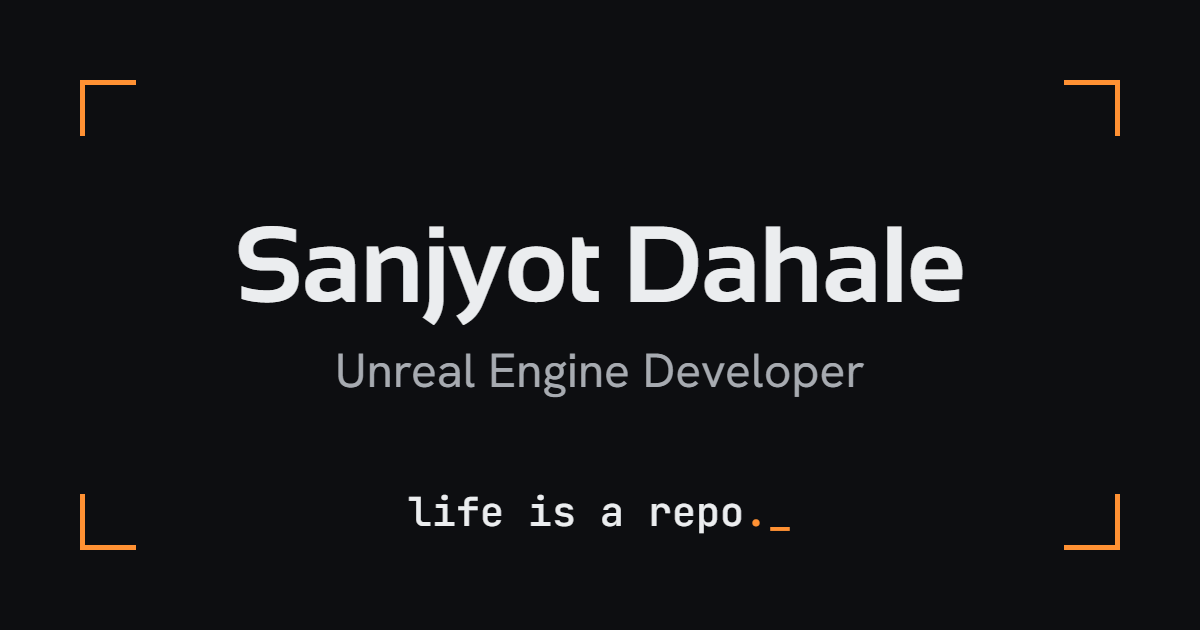
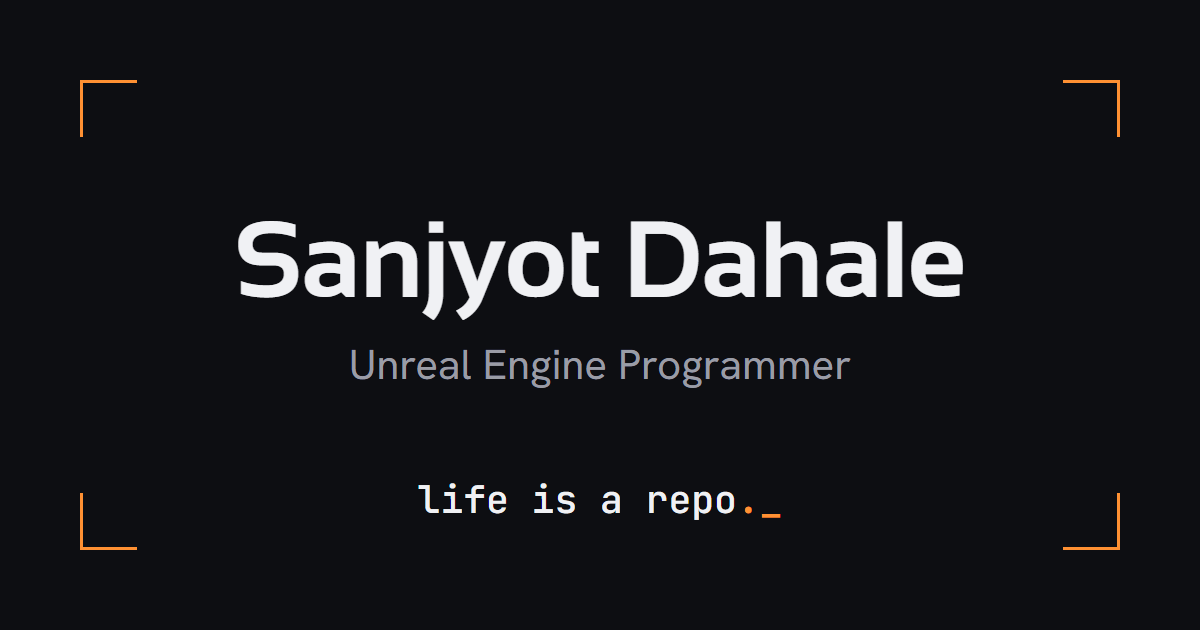
One title everywhere: Unreal Engine Programmer
- Nav, footer, hero role line, page titles, social title, JSON-LD jobTitle
  and devlog byline now say "Unreal Engine Programmer".
- Hero badge is static ("open to unreal programming roles · remote");
  the five-role rotation is gone.
- New link-preview description; knowsAbout drops VP, GenAI and broadcast.
- Regenerated og-default.png with the new title; template in
  _design_system/og-card.html.

diff --git a/_includes/head-meta.html b/_includes/head-meta.html
@@ -18,7 +18,7 @@
 
 {%- comment -%} ---------- title ---------- {%- endcomment -%}
 {%- if page.layout == 'home' or page.url == '/' -%}
-  {%- assign seo_title = 'Sanjyot Dahale — Unreal Engine Developer' -%}
+  {%- assign seo_title = 'Sanjyot Dahale — Unreal Engine Programmer' -%}
 {%- elsif page.title -%}
   {%- assign seo_title = page.title | append: ' · Sanjyot Dahale' -%}
 {%- else -%}
@@ -101,10 +101,10 @@
 </script>
 {%- elsif page.layout == 'home' or page.url == '/' %}
 <script type="application/ld+json">
-{"@context":"https://schema.org","@type":"Person","name":"Sanjyot Dahale","url":{{ site.url | jsonify }},"image":{{ seo_image | jsonify }},"jobTitle":"Unreal Engine Developer","description":{{ site.description | jsonify }},"email":{{ site.email | prepend: 'mailto:' | jsonify }},"sameAs":{{ person_sameas }},"knowsAbout":["Unreal Engine","Game Development","C++","Virtual Production","Extended Reality","Mixed Reality","Generative AI","Real-Time Broadcast"]}
+{"@context":"https://schema.org","@type":"Person","name":"Sanjyot Dahale","url":{{ site.url | jsonify }},"image":{{ seo_image | jsonify }},"jobTitle":"Unreal Engine Programmer","description":{{ site.description | jsonify }},"email":{{ site.email | prepend: 'mailto:' | jsonify }},"sameAs":{{ person_sameas }},"knowsAbout":["Unreal Engine","C++","Game Development","Unreal Engine plugins","Third-party SDK integration","Multiplayer networking","Performance optimisation","Extended Reality"]}
 </script>
 {%- elsif page.url == '/about/' %}
 <script type="application/ld+json">
-{"@context":"https://schema.org","@type":"AboutPage","name":{{ seo_title | jsonify }},"description":{{ seo_desc | jsonify }},"url":{{ seo_url | jsonify }},"mainEntity":{"@type":"Person","name":"Sanjyot Dahale","url":{{ site.url | jsonify }},"image":{{ seo_image | jsonify }},"jobTitle":"Unreal Engine Developer","sameAs":{{ person_sameas }}}}
+{"@context":"https://schema.org","@type":"AboutPage","name":{{ seo_title | jsonify }},"description":{{ seo_desc | jsonify }},"url":{{ seo_url | jsonify }},"mainEntity":{"@type":"Person","name":"Sanjyot Dahale","url":{{ site.url | jsonify }},"image":{{ seo_image | jsonify }},"jobTitle":"Unreal Engine Programmer","sameAs":{{ person_sameas }}}}
 </script>
 {%- endif %}

diff --git a/_layouts/home.html b/_layouts/home.html
@@ -3,9 +3,7 @@
   <head>
     <meta charset="UTF-8" />
     <meta name="viewport" content="width=device-width, initial-scale=1.0" />
-    <title>
-      Sanjyot Dahale | Game Developer - {{ page.title | default: "" }}
-    </title>
+    <title>Sanjyot Dahale — Unreal Engine Programmer</title>
     <meta name="description" content="{{ site.description }}" />
     {% include head-meta.html %}
     <link rel="preconnect" href="https://fonts.googleapis.com" />
@@ -87,27 +85,25 @@
         <div class="wrap">
           <div class="hero-inner">
             <div class="hero-text">
-              <span
-                class="hero-tag"
-                data-roles='["game developer roles", "unreal engine developer roles", "game systems programmer roles", "xr developer roles", "tools programmer roles"]'
+              <span class="hero-tag"
                 ><span class="d"></span>
                 <span class="mono"
                   >open to
-                  <span class="hero-role-word">game developer roles</span
+                  <span class="hero-role-word">unreal programming roles · remote</span
                   ><span class="hero-tag-cur" aria-hidden="true">_</span></span
                 ></span
               >
               <h1 class="hero-name">
                 Sanjyot<br />Dahale<span class="obj">.</span>
               </h1>
-              <p class="hero-role" aria-label="Game Developer / Unreal Engine">
+              <p class="hero-role" aria-label="Unreal Engine Programmer / C++">
                 <span class="arw">&gt;</span
-                ><span class="role-type">game developer</span
-                ><span class="dim"> · unreal engine · c++</span
+                ><span class="role-type">unreal engine programmer</span
+                ><span class="dim"> · c++</span
                 ><span class="cur" aria-hidden="true"></span>
               </p>
               <p class="hero-line">
-                Unreal Engine developer with a career spanning six years across
+                Unreal Engine programmer with a career spanning six years across
                 <span class="hl">games, XR, and real-time production</span>
                 pipelines.
               </p>

diff --git a/_design_system/og-card.html b/_design_system/og-card.html
@@ -1,0 +1,27 @@
+<!-- Source for assets/images/og-default.png (1200x630).
+     Render: headless Chrome at 1200x630, e.g.
+     node O:/LIAR/blank-slate/tools/shoot.mjs file:///<path-to-this-file> <out> 1 1200 630 -->
+<!doctype html>
+<html><head><meta charset="utf-8">
+<link href="https://fonts.googleapis.com/css2?family=Hanken+Grotesk:wght@400;500&family=JetBrains+Mono:wght@500;700&family=Sansation:wght@400;700&display=block" rel="stylesheet">
+<style>
+  html,body{margin:0;width:1200px;height:630px;background:#0d0e12;overflow:hidden}
+  .c{position:absolute;width:54px;height:54px;border-color:#ff9133;border-style:solid;border-width:0}
+  .tl{left:80px;top:80px;border-left-width:3px;border-top-width:3px}
+  .tr{right:80px;top:80px;border-right-width:3px;border-top-width:3px}
+  .bl{left:80px;bottom:80px;border-left-width:3px;border-bottom-width:3px}
+  .br{right:80px;bottom:80px;border-right-width:3px;border-bottom-width:3px}
+  .stack{position:absolute;inset:0;display:flex;flex-direction:column;align-items:center}
+  .name{margin-top:206px;font:700 108px/1 'Sansation',sans-serif;color:#f0f1f4;letter-spacing:-1px}
+  .role{margin-top:30px;font:400 42px/1 'Hanken Grotesk',sans-serif;color:#9a9ca6}
+  .repo{margin-top:94px;font:500 38px/1 'JetBrains Mono',monospace;color:#f0f1f4}
+  .repo .o{color:#ff9133}
+</style></head>
+<body>
+  <span class="c tl"></span><span class="c tr"></span><span class="c bl"></span><span class="c br"></span>
+  <div class="stack">
+    <div class="name">Sanjyot Dahale</div>
+    <div class="role">Unreal Engine Programmer</div>
+    <div class="repo">life is a repo<span class="o">._</span></div>
+  </div>
+</body></html>

diff --git a/_layouts/default.html b/_layouts/default.html
@@ -3,7 +3,7 @@
 <head>
   <meta charset="UTF-8" />
   <meta name="viewport" content="width=device-width, initial-scale=1.0" />
-  <title>{{ page.title | default: "Sanjyot Dahale" }} — Unreal Engine Developer</title>
+  <title>{{ page.title | default: "Sanjyot Dahale" }} — Unreal Engine Programmer</title>
   <meta name="description" content="{{ page.description | default: site.description }}" />
   {% include head-meta.html %}
   <link rel="preconnect" href="https://fonts.googleapis.com" />

diff --git a/_includes/footer.html b/_includes/footer.html
@@ -2,7 +2,7 @@
   <div class="wrap">
     <div class="footer-brand">
       <span class="footer-name">life is a repo<span class="dot">.</span></span>
-      <span class="footer-tag">// sanjyot dahale — game developer</span>
+      <span class="footer-tag">// sanjyot dahale — unreal engine programmer</span>
     </div>
     <div class="footer-links">
       <a class="footer-link" href="mailto:{{ site.email }}">✉ email</a>

diff --git a/_includes/header.html b/_includes/header.html
@@ -5,7 +5,7 @@
         ><span class="brand-txt">life&nbsp;is&nbsp;a&nbsp;repo</span
         ><span class="dot">.</span><span class="cur">_</span></span
       >
-      <span class="brand-sub">game developer · unreal engine</span>
+      <span class="brand-sub">unreal engine programmer</span>
     </a>
     <div class="nav-right">
       <ul class="nav-links" id="navLinks">

diff --git a/_layouts/post.html b/_layouts/post.html
@@ -380,7 +380,7 @@
         {% endif %}
         <div class="dl-author">
           <div class="av">SD</div>
-          <div class="who"><b>Sanjyot Dahale</b> · Unreal Engine Developer</div>
+          <div class="who"><b>Sanjyot Dahale</b> · Unreal Engine Programmer</div>
         </div>
       </header>
 

diff --git a/_design_system/copy-guide.md b/_design_system/copy-guide.md
@@ -210,6 +210,37 @@ section. **Both failures were the same mistake: including the answer.**
 
 ---
 
+### Title, hero badge and link preview (2026-10-13)
+
+**One title everywhere: "Unreal Engine Programmer."** This follows the anchor rule in
+`_career/master-resume.md` §0: the site describes the kind of work and carries one title.
+- **"game developer"** was replaced in the navigation subtitle, footer, hero role line and
+  home page title.
+- **"Unreal Engine Developer"** was replaced in the social title, the JSON-LD `jobTitle`, the
+  devlog author line and the 404 title.
+- **The official job title,** "Lead Unreal Engine Developer & Tech Lead", stays wherever it
+  appears as a job title (the experience timeline and project role fields).
+
+**Hero badge, now static:** `open to unreal programming roles · remote`.
+- The five-role rotation was removed. A blank-slate review (2026-09-25) found that cycling
+  through five roles reads to a hiring manager as "will take anything".
+- The new line names the kind of role and the work arrangement, not a specialism.
+- Rejected:
+  - "open to work · remote or relocation": names no role.
+  - "open to engine and tools programming roles": names a specialism, while the site
+    describes work, not roles.
+
+**Hero line, kept:** Sanjyot preferred it to three new variants. Only "developer" became
+"programmer", to match the title.
+
+**Link-preview text (`site.description`):** "Unreal Engine programmer, six years in C++ and
+Blueprint: plugins, third-party SDKs, native platform code, live video and multiplayer."
+- It's the first text a LinkedIn or Google click shows. The previous version named virtual
+  production and GenAI, the two fields being left.
+- It mirrors the resume summary, so the preview and the resume agree.
+
+---
+
 *All home-page sections now have approved copy.*
 
 *"Shipped under fire." (h2.s-title under #client) — reviewed and kept intentionally. The rest of the page is restrained enough that one punchy title earns its place. Alternatives were tried (options: "It shipped.", "On deadline, every time.", "All of it shipped.", "The client work.") — all felt too mellow. Original stands.*
